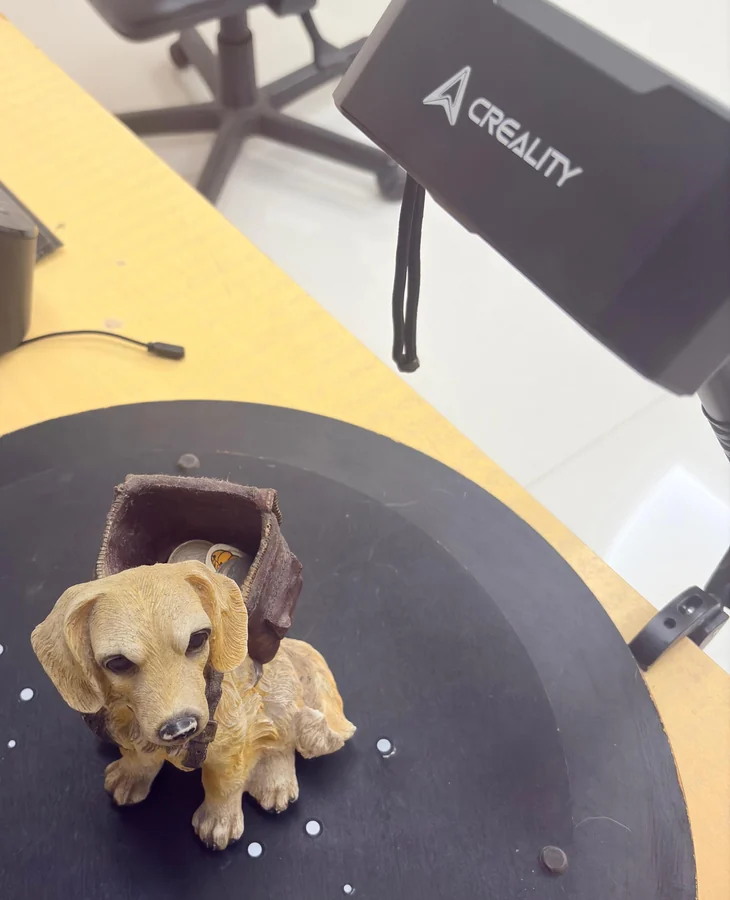
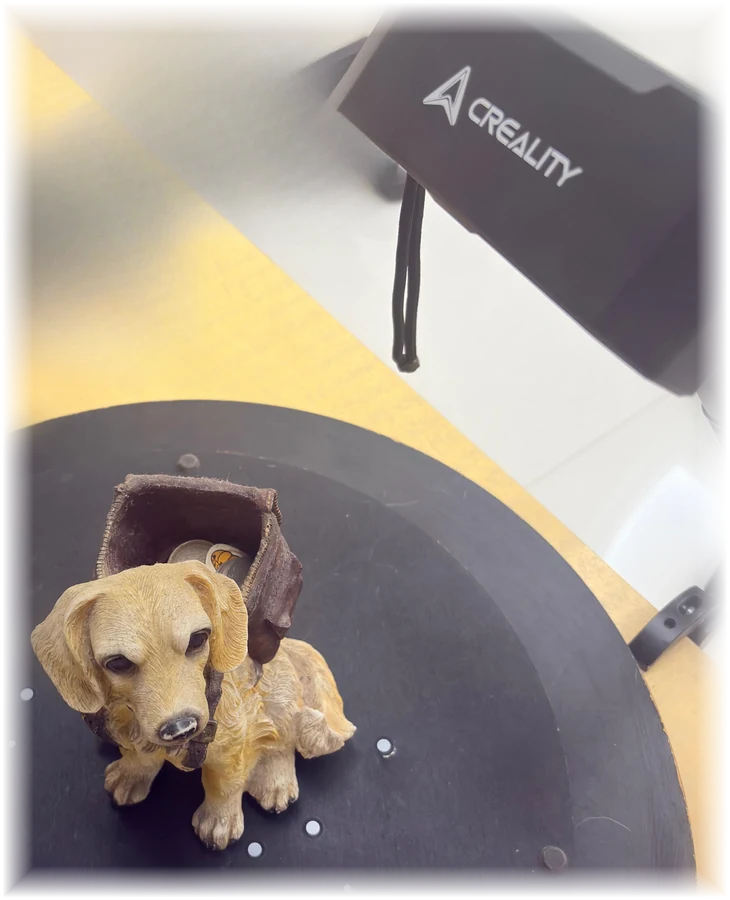
Fora a cadeira e a impressora da foto, e a borda dissolve no painel
A cadeira e a quina da impressora com o cabo (o retangulo que o dono da loja
marcou) saiam do quadro por corte nenhum: a cadeira ocupa a mesma faixa
horizontal do cachorro e a mesma faixa vertical do scanner. Entao foi
preenchimento -- LaMa (simple-lama-inpainting) sobre o torch que ja existe no
ComfyUI, com mascara desenhada a mao sobre as duas regioes.

O cv2 sozinho nao servia: a diagonal da mesa passa exatamente pelo meio da area
apagada, e Telea/Navier-Stokes borram estrutura. O LaMa reconstruiu a linha.

A borda agora perde foco e opacidade nos ultimos ~35 px, assada no arquivo
(WebP com alpha), e a imagem dissolve no painel em vez de terminar num corte
reto. Por isso sairam rounded/shadow/ring: moldura em imagem esfumada desenha
de volta o retangulo que o esfumado veio tirar.

O esfumado passou por dois ajustes. Na primeira tentativa a opacidade cheia so
chegava no meio da banda e lavava a lateral do cachorro; agora a dissolucao fica
presa na borda e o assunto continua opaco e nitido.

Mesmos 43 KB de antes. Conferido no navegador.

Changed region(s): [[0.0, 0.0, 1.0, 1.0], [0.9342, 0.0, 1.0, 0.56]]

diff --git a/src/app/page.js b/src/app/page.js
@@ -164,10 +164,15 @@ export default async function HomePage() {
                   elementos do fundo transformaria um flagrante de trabalho num
                   arranjo de objetos soltos no ar. */}
               <div className="order-2 md:order-1">
+                {/* A borda esfumada esta assada no arquivo (WebP com alpha): a
+                    imagem perde foco e opacidade nos ultimos ~35 px e dissolve no
+                    painel. Por isso NAO leva rounded/shadow/ring -- moldura em
+                    imagem esfumada desenha de volta o retangulo que o esfumado
+                    veio tirar. Depende do painel ser claro. */}
                 <img
                   src="/personalizados.webp"
                   alt="Peça sobre a bandeja giratória sendo digitalizada pelo scanner 3D"
-                  className="w-full max-w-sm mx-auto rounded-xl shadow-lg ring-1 ring-black/5"
+                  className="w-full max-w-sm mx-auto"
                 />
               </div>
               <div className="order-1 md:order-2">
